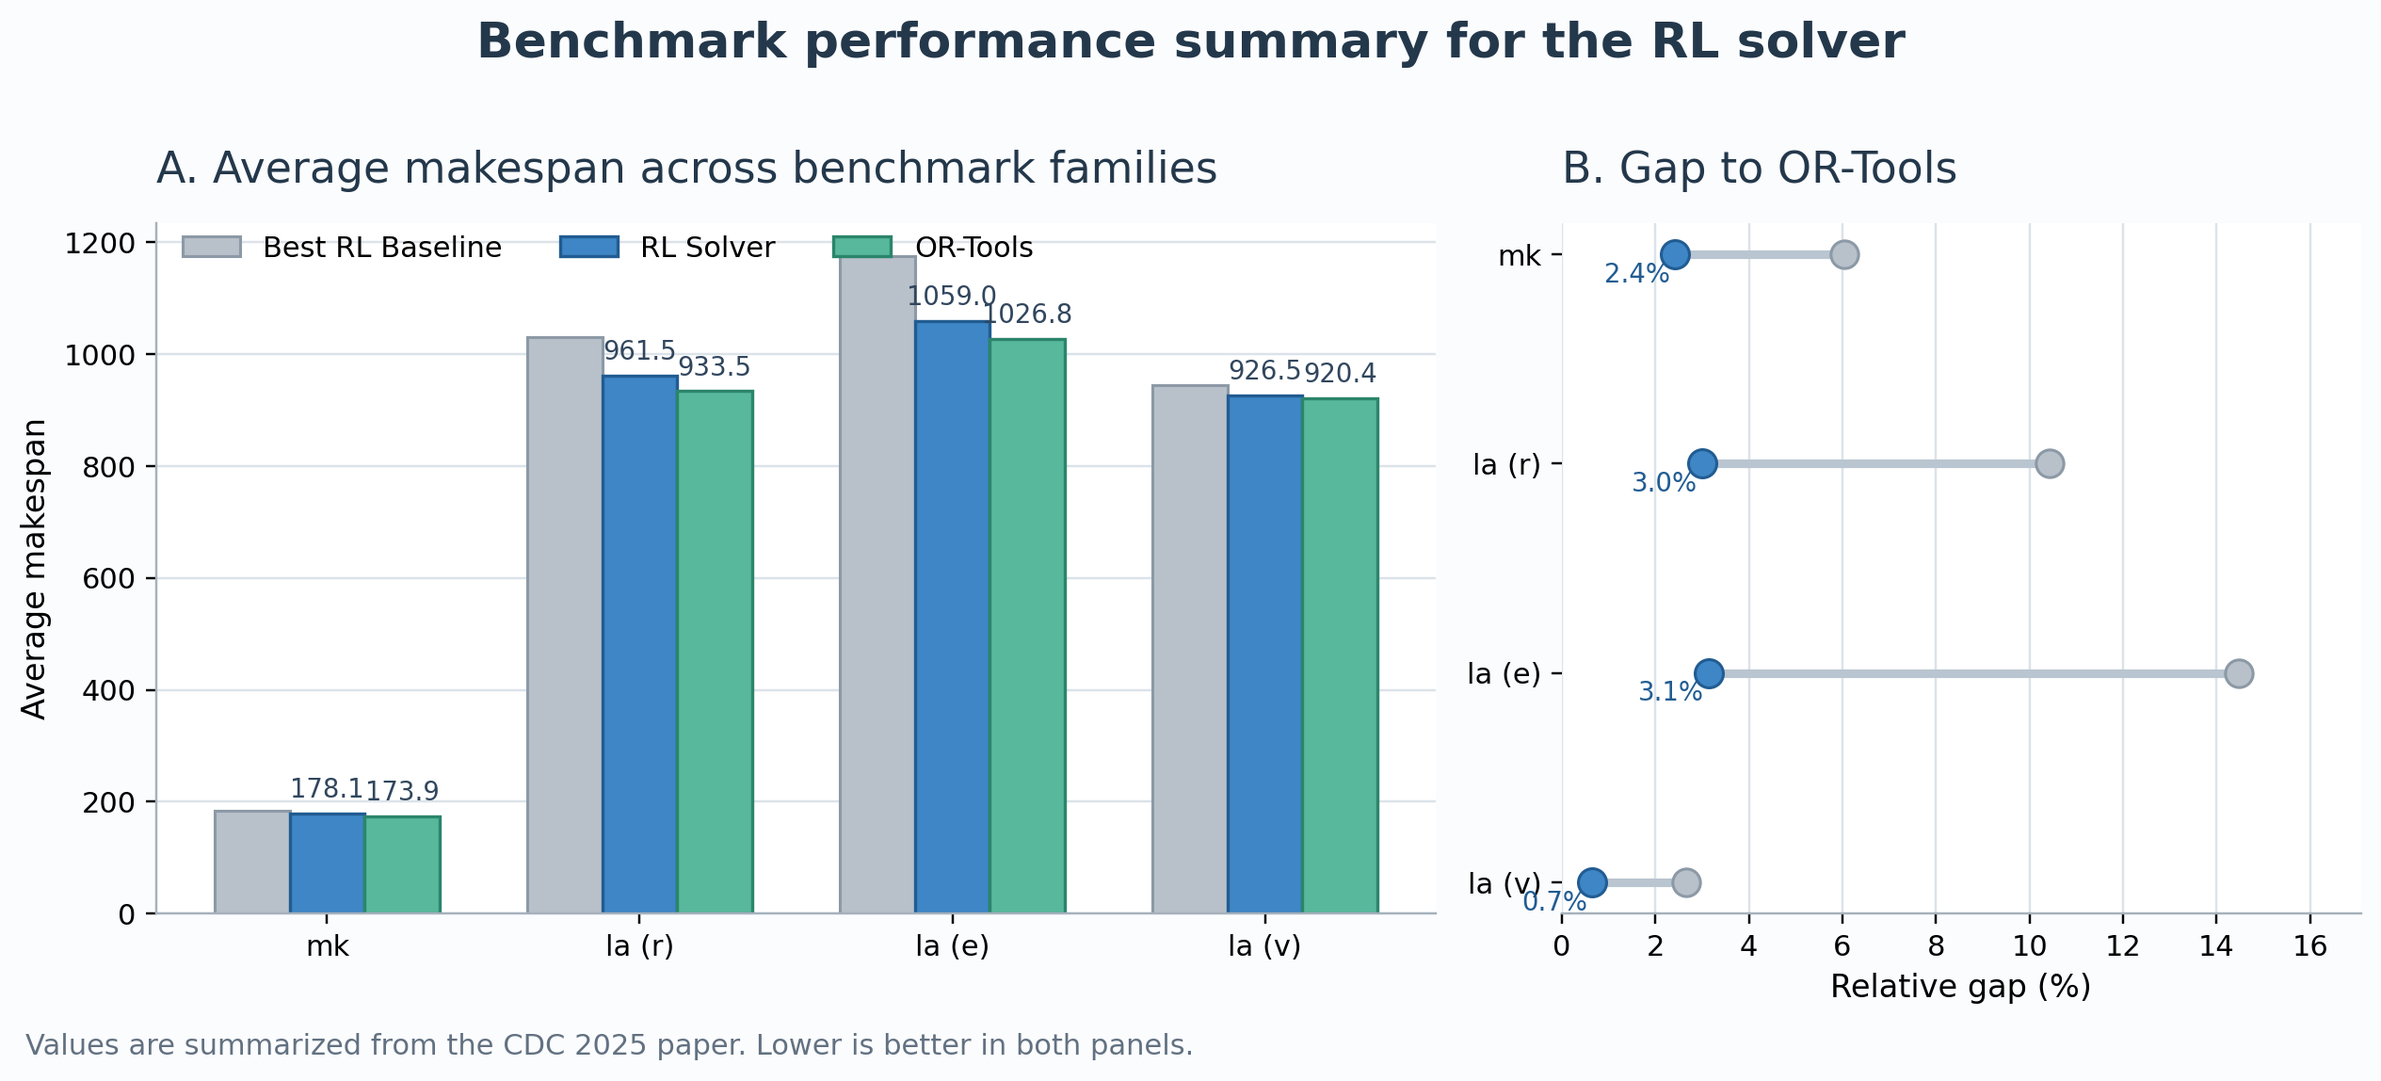
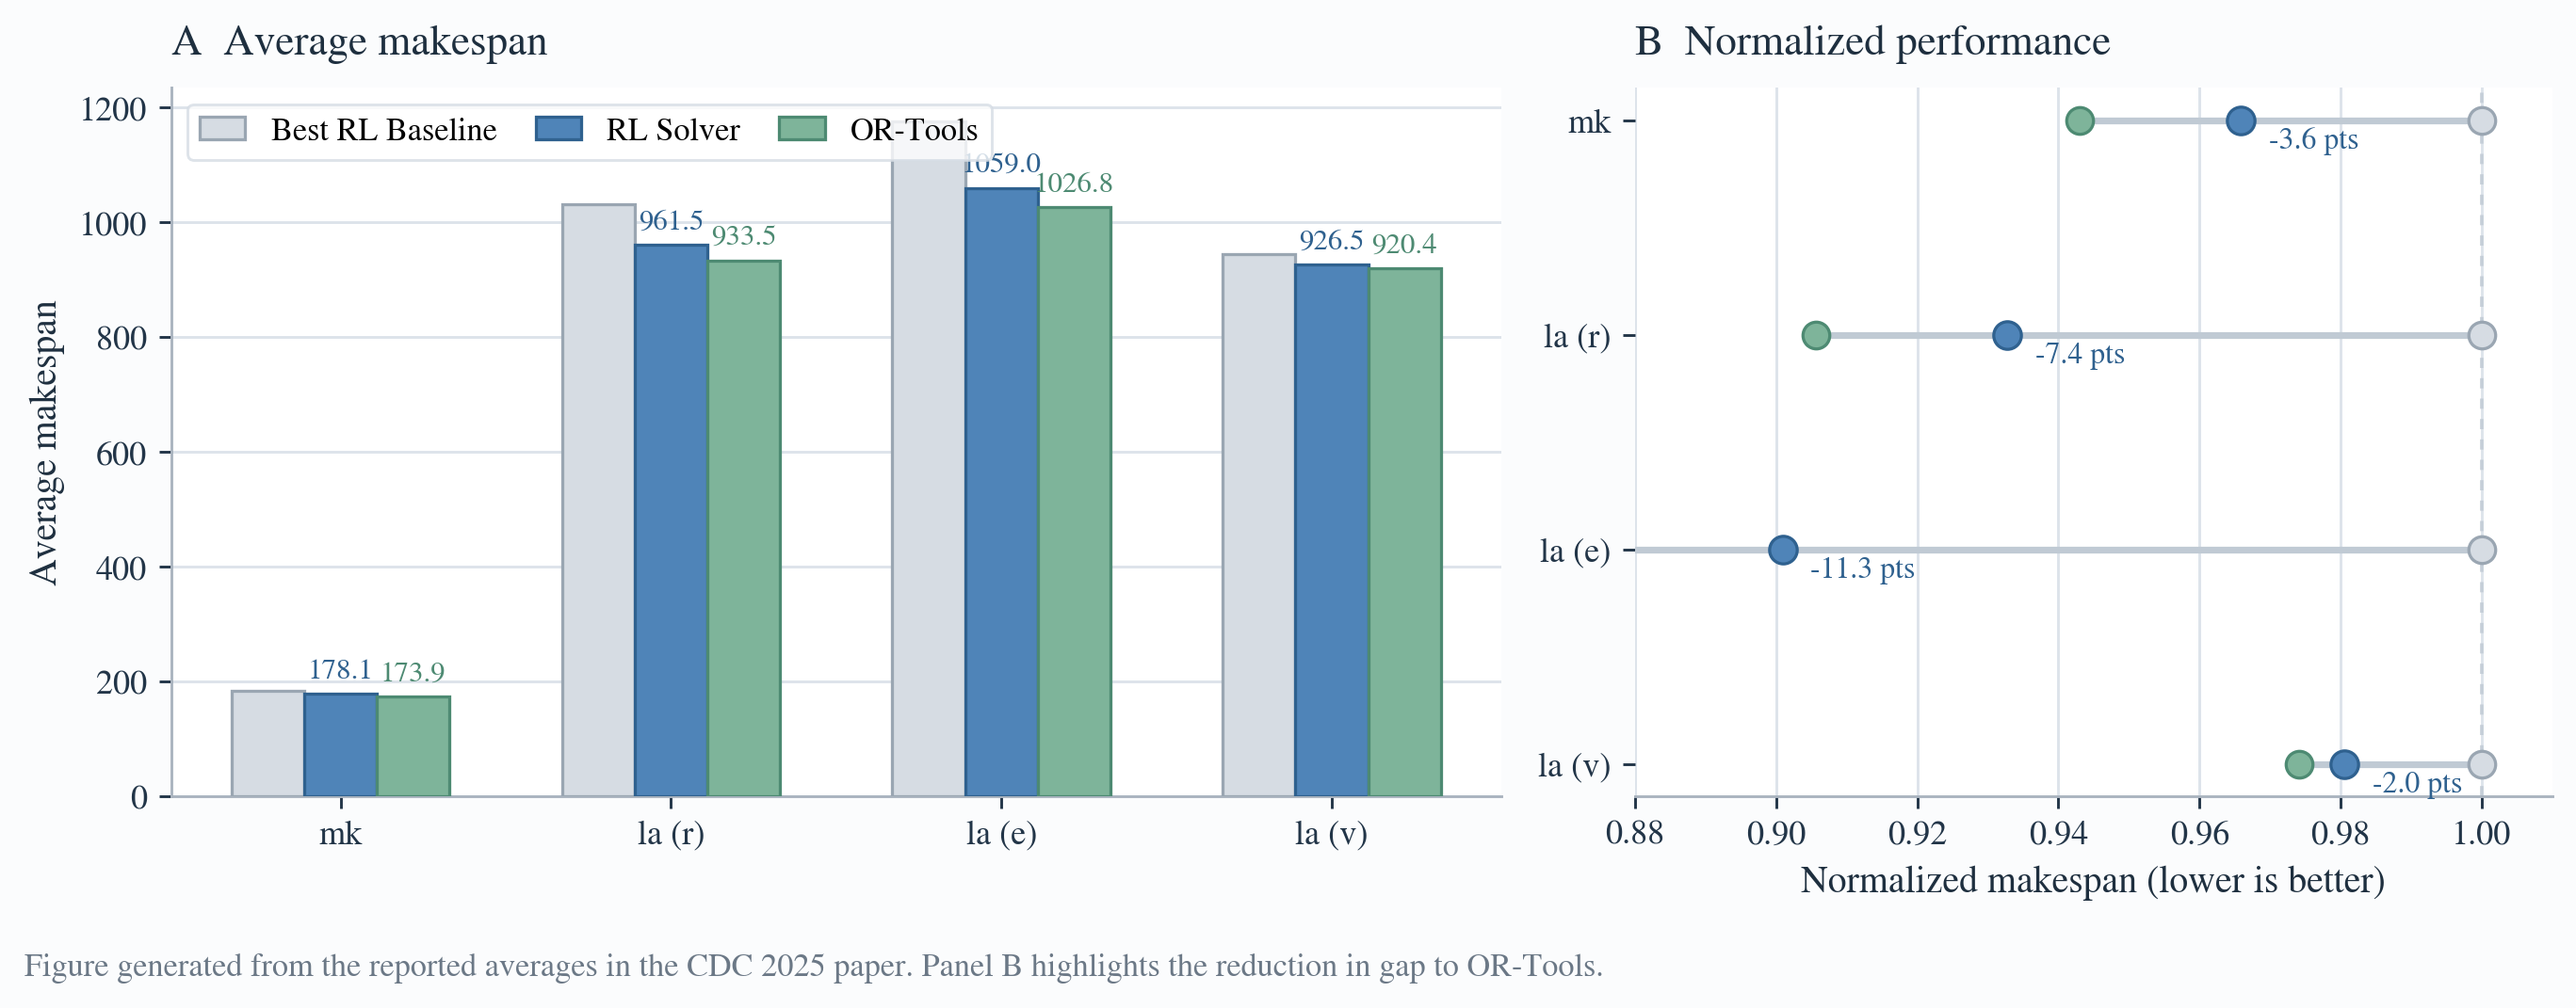
Refine benchmark figure toward paper style

diff --git a/scripts/generate_project_benchmark_figure.py b/scripts/generate_project_benchmark_figure.py
@@ -14,146 +14,172 @@ SOLVER = np.array([178.10, 961.53, 1059.05, 926.45])
 ORTOOLS = np.array([173.90, 933.53, 1026.80, 920.40])
 
 
-def annotate_bars(ax, bars, values):
+def style_axis(ax):
+    ax.spines["top"].set_visible(False)
+    ax.spines["right"].set_visible(False)
+    ax.spines["left"].set_color("#aab4bf")
+    ax.spines["bottom"].set_color("#aab4bf")
+    ax.tick_params(colors="#223548", labelsize=10)
+
+
+def add_value_labels(ax, bars, values, color):
+    offset = max(values) * 0.015
     for bar, value in zip(bars, values):
         ax.text(
             bar.get_x() + bar.get_width() / 2,
-            bar.get_height() + max(values) * 0.018,
+            bar.get_height() + offset,
             f"{value:.1f}",
             ha="center",
             va="bottom",
-            fontsize=9,
-            color="#31465d",
+            fontsize=8.6,
+            color=color,
         )
 
 
 def main() -> None:
     output_path = Path(__file__).resolve().parents[1] / "assets" / "benchmark-comparison.png"
 
+    baseline_ratio = BASELINE / BASELINE
+    solver_ratio = SOLVER / BASELINE
+    or_ratio = ORTOOLS / BASELINE
+    solver_gap = (SOLVER - ORTOOLS) / ORTOOLS * 100
+    baseline_gap = (BASELINE - ORTOOLS) / ORTOOLS * 100
+
     colors = {
-        "baseline": "#B8C0CA",
-        "solver": "#3E86C6",
-        "solver_edge": "#215C92",
-        "or": "#57B89C",
-        "or_edge": "#2B856B",
-        "accent": "#24384B",
-        "grid": "#D8E0E7",
-        "bg": "#FBFCFE",
+        "ink": "#1e2f3f",
+        "muted": "#6b7886",
+        "grid": "#dde3ea",
+        "baseline_fill": "#d6dce3",
+        "baseline_edge": "#9aa6b2",
+        "solver_fill": "#4f84b8",
+        "solver_edge": "#2f618f",
+        "or_fill": "#7eb49a",
+        "or_edge": "#4d8a72",
+        "paper": "#ffffff",
+        "bg": "#fbfcfd",
     }
 
     plt.rcParams.update(
         {
-            "font.family": "DejaVu Sans",
-            "axes.titlesize": 15,
+            "font.family": "STIXGeneral",
             "axes.labelsize": 11,
+            "axes.titlesize": 12.5,
             "xtick.labelsize": 10,
             "ytick.labelsize": 10,
+            "mathtext.fontset": "stix",
         }
     )
 
     fig, axes = plt.subplots(
         1,
         2,
-        figsize=(11.6, 4.8),
-        dpi=220,
-        gridspec_kw={"width_ratios": [1.6, 1.0]},
+        figsize=(10.6, 4.0),
+        dpi=260,
+        gridspec_kw={"width_ratios": [1.45, 1.0]},
     )
     fig.patch.set_facecolor(colors["bg"])
 
     x = np.arange(len(BENCHMARKS))
-    width = 0.24
+    width = 0.22
 
-    ax = axes[0]
-    ax.set_facecolor("white")
-    bars_base = ax.bar(
+    ax1 = axes[0]
+    ax1.set_facecolor(colors["paper"])
+    bars_base = ax1.bar(
         x - width,
         BASELINE,
-        width,
+        width=width,
+        color=colors["baseline_fill"],
+        edgecolor=colors["baseline_edge"],
+        linewidth=0.9,
         label="Best RL Baseline",
-        color=colors["baseline"],
-        edgecolor="#8C99A6",
-        linewidth=1.0,
+        zorder=3,
     )
-    bars_solver = ax.bar(
+    bars_solver = ax1.bar(
         x,
         SOLVER,
-        width,
-        label="RL Solver",
-        color=colors["solver"],
+        width=width,
+        color=colors["solver_fill"],
         edgecolor=colors["solver_edge"],
-        linewidth=1.1,
+        linewidth=0.9,
+        label="RL Solver",
+        zorder=3,
     )
-    bars_or = ax.bar(
+    bars_or = ax1.bar(
         x + width,
         ORTOOLS,
-        width,
-        label="OR-Tools",
-        color=colors["or"],
+        width=width,
+        color=colors["or_fill"],
         edgecolor=colors["or_edge"],
-        linewidth=1.1,
+        linewidth=0.9,
+        label="OR-Tools",
+        zorder=3,
     )
 
-    annotate_bars(ax, bars_solver, SOLVER)
-    annotate_bars(ax, bars_or, ORTOOLS)
+    add_value_labels(ax1, bars_solver, SOLVER, colors["solver_edge"])
+    add_value_labels(ax1, bars_or, ORTOOLS, colors["or_edge"])
 
-    ax.set_title("A. Average makespan across benchmark families", loc="left", color=colors["accent"], pad=14)
-    ax.set_ylabel("Average makespan")
-    ax.set_xticks(x)
-    ax.set_xticklabels(BENCHMARKS)
-    ax.grid(axis="y", color=colors["grid"], linewidth=0.8, alpha=0.9)
-    ax.set_axisbelow(True)
-    ax.spines["top"].set_visible(False)
-    ax.spines["right"].set_visible(False)
-    ax.spines["left"].set_color("#A5B1BC")
-    ax.spines["bottom"].set_color("#A5B1BC")
-    ax.legend(loc="upper left", frameon=False, ncol=3, bbox_to_anchor=(0.0, 1.02))
+    ax1.set_title("A  Average makespan", loc="left", color=colors["ink"], pad=10)
+    ax1.set_ylabel("Average makespan", color=colors["ink"])
+    ax1.set_xticks(x)
+    ax1.set_xticklabels(BENCHMARKS)
+    ax1.grid(axis="y", color=colors["grid"], linewidth=0.8, zorder=0)
+    ax1.set_axisbelow(True)
+    style_axis(ax1)
+    legend = ax1.legend(
+        loc="upper left",
+        ncol=3,
+        frameon=True,
+        fontsize=9.5,
+        handlelength=1.4,
+        columnspacing=1.2,
+        borderpad=0.4,
+        bbox_to_anchor=(0.0, 1.0),
+    )
+    legend.get_frame().set_facecolor("#ffffff")
+    legend.get_frame().set_edgecolor("#d5dce4")
+    legend.get_frame().set_linewidth(0.8)
 
     ax2 = axes[1]
-    ax2.set_facecolor("white")
-    baseline_gap = (BASELINE - ORTOOLS) / ORTOOLS * 100
-    solver_gap = (SOLVER - ORTOOLS) / ORTOOLS * 100
-    y = np.arange(len(BENCHMARKS))
+    ax2.set_facecolor(colors["paper"])
+    line_y = np.arange(len(BENCHMARKS))
+    ax2.axvline(1.0, color="#c5ced8", linewidth=1.0, linestyle=(0, (3, 3)), zorder=1)
+    ax2.hlines(line_y, or_ratio, baseline_ratio, color="#c0cad4", linewidth=2.0, zorder=2)
+    ax2.scatter(baseline_ratio, line_y, s=62, color=colors["baseline_fill"], edgecolor=colors["baseline_edge"], linewidth=0.9, zorder=3)
+    ax2.scatter(solver_ratio, line_y, s=66, color=colors["solver_fill"], edgecolor=colors["solver_edge"], linewidth=0.9, zorder=4)
+    ax2.scatter(or_ratio, line_y, s=62, color=colors["or_fill"], edgecolor=colors["or_edge"], linewidth=0.9, zorder=3)
 
-    ax2.hlines(y, solver_gap, baseline_gap, color="#B9C5D0", linewidth=3.0, zorder=1)
-    ax2.scatter(baseline_gap, y, s=92, color=colors["baseline"], edgecolor="#8C99A6", linewidth=1.0, zorder=3, label="Best RL Baseline")
-    ax2.scatter(solver_gap, y, s=96, color=colors["solver"], edgecolor=colors["solver_edge"], linewidth=1.0, zorder=4, label="RL Solver")
+    for y_value, solver_value, improvement in zip(line_y, solver_ratio, baseline_gap - solver_gap):
+        ax2.text(
+            solver_value + 0.004,
+            y_value + 0.16,
+            f"-{improvement:.1f} pts",
+            ha="left",
+            va="bottom",
+            fontsize=8.8,
+            color=colors["solver_edge"],
+        )
 
-    for gap, yi in zip(solver_gap, y):
-        ax2.text(gap - 0.1, yi + 0.16, f"{gap:.1f}%", ha="right", va="bottom", fontsize=9, color=colors["solver_edge"])
-
-    ax2.set_title("B. Gap to OR-Tools", loc="left", color=colors["accent"], pad=14)
-    ax2.set_xlabel("Relative gap (%)")
-    ax2.set_yticks(y)
+    ax2.set_title("B  Normalized performance", loc="left", color=colors["ink"], pad=10)
+    ax2.set_xlabel("Normalized makespan (lower is better)", color=colors["ink"])
+    ax2.set_yticks(line_y)
     ax2.set_yticklabels(BENCHMARKS)
     ax2.invert_yaxis()
-    ax2.grid(axis="x", color=colors["grid"], linewidth=0.8, alpha=0.9)
+    ax2.grid(axis="x", color=colors["grid"], linewidth=0.8, zorder=0)
     ax2.set_axisbelow(True)
-    ax2.spines["top"].set_visible(False)
-    ax2.spines["right"].set_visible(False)
+    ax2.set_xlim(0.88, 1.01)
+    style_axis(ax2)
     ax2.spines["left"].set_visible(False)
-    ax2.spines["bottom"].set_color("#A5B1BC")
-
-    max_gap = max(float(baseline_gap.max()), float(solver_gap.max()))
-    ax2.set_xlim(0, max_gap * 1.18)
-
-    fig.suptitle(
-        "Benchmark performance summary for the RL solver",
-        fontsize=17,
-        fontweight="bold",
-        color=colors["accent"],
-        y=1.02,
-    )
 
     fig.text(
-        0.015,
-        -0.02,
-        "Values are summarized from the CDC 2025 paper. Lower is better in both panels.",
-        fontsize=10,
-        color="#627181",
+        0.012,
+        -0.01,
+        "Figure generated from the reported averages in the CDC 2025 paper. Panel B highlights the reduction in gap to OR-Tools.",
+        fontsize=9.5,
+        color=colors["muted"],
     )
 
-    plt.tight_layout()
-    fig.savefig(output_path, bbox_inches="tight")
+    fig.tight_layout(rect=(0, 0.03, 1, 1))
+    fig.savefig(output_path, bbox_inches="tight", facecolor=fig.get_facecolor())
 
 
 if __name__ == "__main__":
